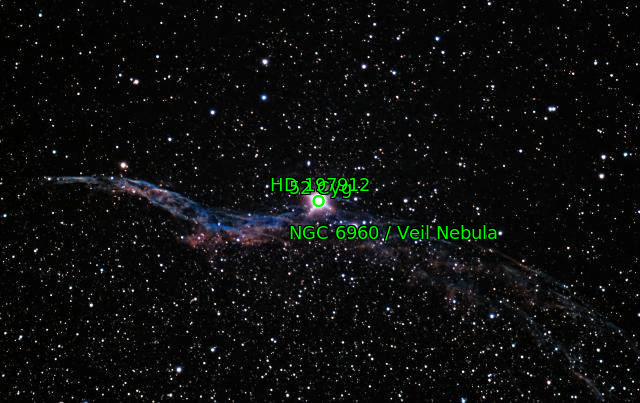
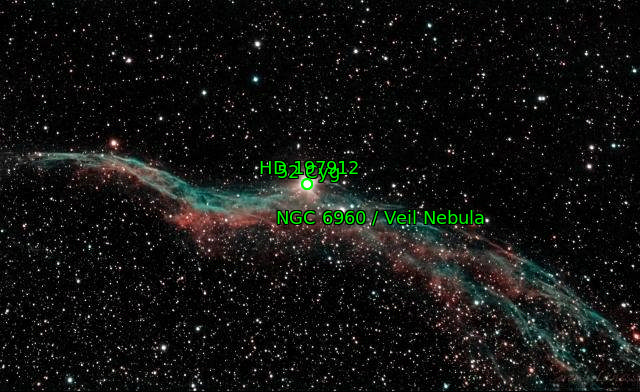
Refresh NGC6960

diff --git a/_gallery/ngc6960-veil-nebula.md b/_gallery/ngc6960-veil-nebula.md
@@ -9,13 +9,13 @@ length: "400mm"
 aperture: "80mm"
 folder: ngc6960
 exposure: 10
-lights: 326
-sessions: 2
+lights: 864
+sessions: 6
 firstCapture: 2021-06-18 
-lastCapture: 2021-07-30
-ra: "20h 45m 39.9s"
-dec: "+30° 43' 2.636"
-size: "62.012 x 39.041 arcmin"
-radius: "0.611 deg"
-scale: "0.619 arcsec/pixel"
+lastCapture: 2021-09-24
+ra: "20h 45m 44.3s"
+dec: "+30° 41' 48.915"
+size: "62.31 x 38.098 arcmin"
+radius: "0.609 deg"
+scale: "0.803 arcsec/pixel"
 ---

diff --git a/assets/images/gallery/ngc6960/ngc6960.md b/assets/images/gallery/ngc6960/ngc6960.md
@@ -1,0 +1,21 @@
+---
+title: "ngc6960"
+type:
+tags: ["NGC 6960","The star 52Cyg","Veil Nebula"]
+description:
+image: /assets/images/gallery/ngc6960/thumb.jpg
+telescope: Stellina
+length: "400mm"
+aperture: "80mm"
+folder: ngc6960
+exposure: 
+lights: 
+sessions: 
+firstCapture: 
+lastCapture:
+ra: "20h 45m 44.3s"
+dec: "+30° 41' 48.915"
+size: "62.31 x 38.098 arcmin"
+radius: "0.609 deg"
+scale: "0.803 arcsec/pixel"
+---
